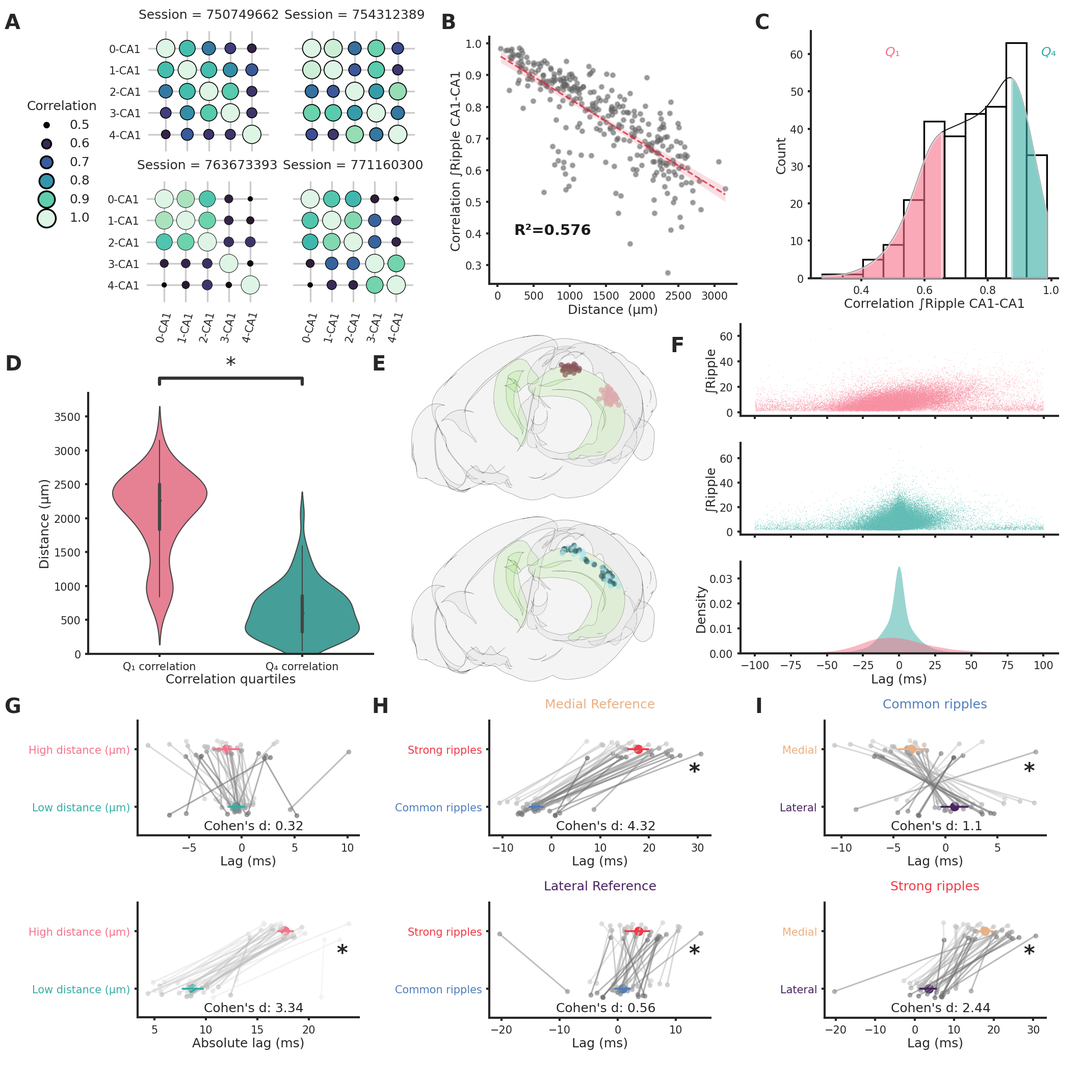
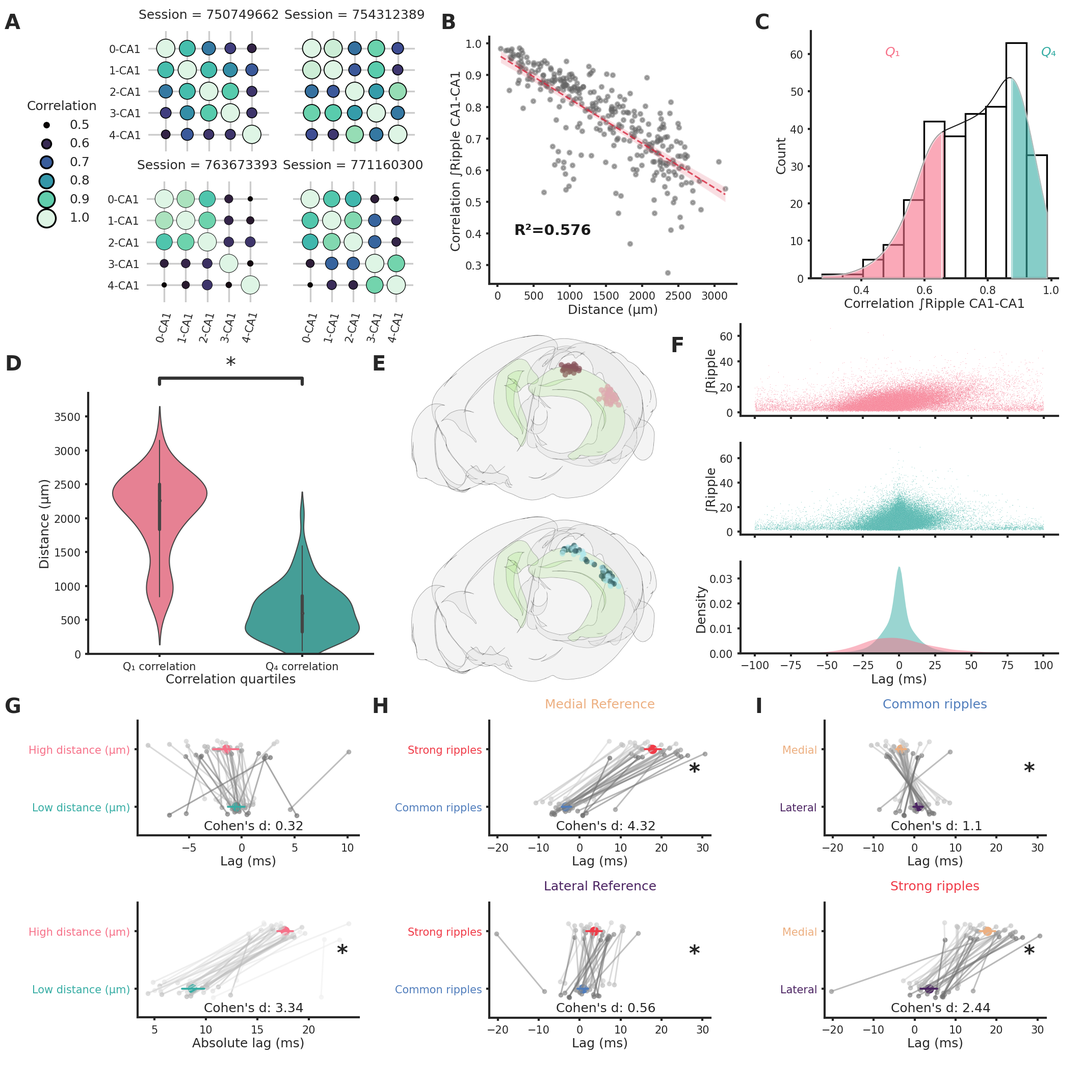
save
save

save

save

save

save

save

save

save

diff --git a/Manuscript/results.py b/Manuscript/results.py
@@ -7,21 +7,24 @@ results = {"Distance explains most of the ripple strength correlation variabilit
             f"in the CA1 of {summary_table['Session'].unique().shape[0]} animals (average session duration = "
             f"{round(np.mean(list(sessions_durations.values())),1)} ± {round(sem(list(sessions_durations.values())),1)} seconds, average ripple incidence during non-running epochs = "
             f"{round(np.mean(list(ripple_freq_total.values()))*10,2)} ± {round(sem(list(ripple_freq_total.values()))*10,2)} per 10s). "
-            f"Ripples were detected on the CA1 channel with the strongest ripple activity (n ripples = {np.sum(list( number_ripples_per_session_best_CA1_channel.values()))}). "
-            f"Ripple strength (∫Ripple) was calculated as the integral of the filtered LFP envelope (Supplementary Figure 2B)."
+            f"Ripples (n ripples = {np.sum(list( number_ripples_per_session_best_CA1_channel.values()))}) "
+            f"were detected on the CA1 channel with the strongest ripple activity. "
+            f"Ripple strength (∫Ripple) was calculated as the integral of the filtered LFP envelope "
+            f"between the start and end points for every detected ripple (Supplementary Figure 2B)."
             f" Clear ripples were observed uniquely in "
-            f"the hippocampal formation (CA1, CA2, CA3, DG, SUB, ProS). Likewise, ripple-induced voltage deflections (RIVD) "
-            f"were also noticeably stronger in hippocampal areas (Supplementary Figure 2C-F). ∫Ripple was noticeably irregular in single sessions both across time and space, even"
+            f"the hippocampal formation (CA1, CA2, CA3, DG, SUB, ProS). Likewise, ripple-induced voltage "
+            f"deflections (RIVD, integral of the unfiltered LFP envelope) "
+            f"were also noticeably stronger in hippocampal areas (Supplementary Figure 2C-F). Ripple strength was noticeably irregular in single sessions both across time and space, even"
             f" within the CA1 region (Supplementary Figure 2C). "
-            f"We focused on the variability in ∫Ripple across pairs of CA1 recording locations "
+            f"We focused on the variability in ripple strength across pairs of CA1 recording locations "
             f"with clear ripple activity (n CA1 pairs = {summary_corrs[summary_corrs['Comparison'] == 'CA1-CA1'].shape[0]},"
             f" n sessions = {summary_corrs['Session'].unique().shape[0]}). "
-            f"Correlation of ∫Ripple across different CA1 regions was highly variable (Figure 1A-B-C) "
+            f"Correlation of ripple strength across different CA1 regions was highly variable (Figure 1A-B-C) "
             f"with a lower and upper quartiles of {round(quartiles_correlation[0.25],2)} and {round(quartiles_correlation[0.75],2)} "
             f"(mean = {round(summary_corrs[summary_corrs['Comparison'] == 'CA1-CA1']['Correlation'].mean(),2)}, "
             f"SEM = {round(summary_corrs[summary_corrs['Comparison'] == 'CA1-CA1']['Correlation'].sem(),2)}). "
             f"Distance between recording location could explain the majority ({round(r_squared_corr_distance*100, 2)}%) of this variability (Figure 1B) "
-            f"with the top and bottom quartiles of ∫Ripple correlation showing significantly different average distances (Figure 1C-D). "
+            f"with the top and bottom quartiles of ripple strength correlation showing significantly different average distances (Figure 1C-D). "
             f"Given the correlation variability we asked how reliably a ripple can travel along the hippocampal longitudinal axis. "
             f"To answer this question, we looked at ripples lag in sessions that included both long-distance (> {round(quartiles_distance[0.75], 2)} µm) and "
             f"short-distance (< {round(quartiles_distance[0.25], 2)} µm) CA1 recording pairs (n sessions = {ripples_lags['Session'].unique().shape[0]}, n CA1 pairs = {ripples_lags['Session'].unique().shape[0] * 2}, Figure 1E). "
@@ -35,21 +38,21 @@ results = {"Distance explains most of the ripple strength correlation variabilit
             f"significantly bigger absolute lag (Figure 1G). Neither high nor short-distance pairs showed clear directionality "
             f"(lag long-distance = {round(ripples_lags_clipped[ripples_lags_clipped['Type']=='High distance (µm)'].groupby('Session')['Lag (ms)'].mean().mean(),2)} ± {round(ripples_lags_clipped[ripples_lags_clipped['Type']=='High distance (µm)'].groupby('Session')['Lag (ms)'].mean().sem(),2)} ms, "   
             f"lag short-distance = {round(ripples_lags_clipped[ripples_lags_clipped['Type']=='Low distance (µm)'].groupby('Session')['Lag (ms)'].mean().mean(),2)} ± {round(ripples_lags_clipped[ripples_lags_clipped['Type']=='Low distance (µm)'].groupby('Session')['Lag (ms)'].mean().sem(),2)} ms). "
-            f"Looking at the relationship between lag and ∫Ripple in long-distance pairs, however, an asymmetric distribution was apparent (Figure 1F top), "
+            f"Looking at the relationship between lag and ripple strength in long-distance pairs, however, an asymmetric distribution was apparent (Figure 1F top), "
             f"suggestive of a possible interaction between these two variables: stronger ripples appear to be predominantly associated with positive lags (i.e. ripples moving medial→lateral). "
-            f"To further investigate this relationship we divided ripples into two groups: strong (top 10% ∫Ripple per session at the reference location) "
+            f"To further investigate this relationship we divided ripples into two groups: strong (top 10% ripple strength per session at the reference location) "
             f"and common (remaining ripples). "
             f"The septal half of the hippocampus was divided in three sections with equal number of recordings:"
             f" medial, central and lateral (Supplementary Figure 3). "
             f"Strong ripples identified in the medial section, in opposition to common ripples, showed a markedly positive lag "
-            f"({fig1_mean_lag_strong_ref_medial} ± {fig1_sem_lag_strong_ref_medial} ms) indicative of a "
+            f"(lag = {fig1_mean_lag_strong_ref_medial} ± {fig1_sem_lag_strong_ref_medial} ms) indicative of a "
             f"preferred medial→lateral travelling direction (Figure 1H top). "
             f"Surprisingly, the same was not true for strong ripples identified in the lateral section (lag = {fig1_mean_lag_strong_ref_lateral} ± {fig1_sem_lag_strong_ref_lateral} ms, Figure 1I). "
-            f"Strong and common ripples lag was significantly different between medial and lateral locations both in common and strong ripples. "
+            f"Strong and common ripples lags were significantly different between medial and lateral locations both in common and strong ripples. "
             f"A biased direction of propagation can be explained by an unequal chance of ripple generation across space. "
-            f"We could assume that selecting strong ripples we are biasing our focus towards ripples whose generation point (seed) is situated nearby our reference "
+            f"We can assume that selecting strong ripples we are biasing our focus towards ripples whose generation point (seed) is situated nearby our reference "
             f"location, this would contribute to explain the unbalanced lag. This notion would, however, fail to explain the different directionality we observed between strong ripples"
-            f" in medial and lateral locations, this hints at a more complex situation.",
+            f" in medial and lateral locations. This hints at a more complex situation.",
 
             "Ripples propagates differentially along the hippocampal longitudinal axis.":
             f"To analyze the propagation of ripples along the hippocampal longitudinal axis we focused on sessions from which ripples were clearly "
@@ -57,10 +60,12 @@ results = {"Distance explains most of the ripple strength correlation variabilit
             f"We followed the propagation of strong and common ripples detected in the reference location across the hippocampus (Figure 2A-B) and built an average spatio-temporal propagation map "
             f"per session (Figure 2C). "
             f"Strong and common ripples in the medial section showed a divergent propagation pattern: strong ripples travelling medio→laterally"
-            f" and common ripples travelling in the opposite direction (Figure 2C-D-E). "
-            f"Ripples detected in the lateral section did not show such strikingly divergent propagation (Figure 2F-G) whereas in the central section the propagation was "
+            f" and common ripples travelling in the opposite direction (Figure 2D-E). "
+            f"Ripples detected in the lateral section did not show such strikingly divergent propagation (Figure 2F-G) whereas, in the central section,"
+            f" the propagation was "
             f"divergent only laterally and not medially (Figure 2H-I). This peculiar propagation profile suggests "
-            "a not previously described underlying directionality along the hippocampal longitudinal axis, with strong ripples generated rarely laterally to the reference point. "
+            "a not previously described underlying directionality along the hippocampal longitudinal axis and can be possibly explained "
+            "by a spatial bias in strong ripples generation. "
             f"To understand the mechanism underlying such difference in propagation "
             f"we examined the location of the seed for each ripple in sessions in which ripples were clearly detected "
             f"in every hippocampal section (n sessions = {seed_ripples_by_hip_section_summary_strong['Session id'].unique().shape[0]})"
@@ -79,20 +84,20 @@ results = {"Distance explains most of the ripple strength correlation variabilit
             f"{round(seed_ripples_by_hip_section_summary_strong[seed_ripples_by_hip_section_summary_strong['Reference']=='Central'].groupby('Location seed').sem().loc['Lateral seed']['Percentage seed (%)'], 2)}%, "
             f"p-value = {p_val_medial_lateral}, Pairwise Tukey test). Strong and common ripples had significantly different seed location profiles only in the medial and central section, "
             f"not in the lateral section (Figure 3B). "
-            f"These seed location profiles explain "
-            f"the propagation idiosyncrasies, major unbalances in seeds location cause propagation patterns with clear directionality, "
+            f"These seed location profiles contribute to explain "
+            f"the propagation idiosyncrasies: major unbalances in seeds location cause propagation patterns with clear directionality, "
             f"on the contrary, lag measurements hovering around zero are the result of "
-            f"averaging between two similarly numbered groups of ripples with opposite direction of propagation. Conversely, "
+            f"averaging between two similarly numbered groups of ripples with opposite direction of propagation. Notably, "
             f"propagation speed did not change depending on the seed location (Supplementary Figure 4). "
             f"The reason why strong ripples are only in a minority of cases"
             f" generated in the lateral section remains nevertheless unclear. Using a 'strength conservation index' (SCI) "
             f"we measured the ability of a ripple to retain its strength during propagation "
             f"(a ripple with SCI = 1 is in the top 10% in all hippocampal sections). We observed that ripples generated laterally "
             f"were effectively less able to retain their strength propagating towards the medial pole (Supplementary Figure 5). This result is not simply "
-            f"explained by differences in ∫Ripple along the medio-lateral (M-L) axis, as no such gradient was observed (R² = {round(r_ML_strength**2,4)}, Supplementary Figure 6). Curiously, "
+            f"explained by differences in ripple strength along the medio-lateral (M-L) axis, as no such gradient was observed (R² = {round(r_ML_strength**2,4)}, Supplementary Figure 6). Curiously, "
             f"ripple amplitude showed a weak trend in the opposite direction (R² = {round(r_ML_amp**2,2)}), with higher amplitude ripples in the lateral section (Supplementary Figure 7).",
 
-            "The hippocampal medial/septal pole can generate longer strong ripples able to better engage neural networks.":
+            "The hippocampal medial pole can generate longer ripples able to better engage neural networks.":
             f"To understand the reason behind the differential propagation we focused uniquely on the central section, "
             f"here it was possible to distinguish between ripples generated laterally or medially ('lateral ripples' and 'medial ripples'). "
             f"We included in the analysis sessions in which ripples were clearly detected in each hippocampal section and with at least {minimum_ripples_count_generated_in_lateral_or_medial_spike_analysis}"
@@ -102,8 +107,8 @@ results = {"Distance explains most of the ripple strength correlation variabilit
             f"in the hippocampal formation across the M-L axis (n clusters per session = {round(tot_summary.groupby('Session id').size().mean(), 2)} ± {round(tot_summary.groupby('Session id').size().sem(), 2)}, Figure 4A-B-C). "
             f"To compare sessions, we created interpolated maps of the difference between spiking induced"
             f' by medial and lateral ripples (Figure 4D). Immediately following ripple start (0-50 ms, "early phase") spiking was '
-            f"predictably influenced by ripple seed proximity: in the lateral section, lateral ripples induced more spiking (indicated by the blue color), "
-            f"whereas in the medial section it was the medial ripples that dominated (indicated by the red color). "
+            f"predictably influenced by ripple seed proximity: in the lateral section lateral ripples induced more spiking (indicated by the blue color), "
+            f"whereas in the medial section medial ripples dominated (indicated by the red color). "
             f'Surprisingly, in the 50-120 ms window post ripple start ("late phase"), medial ripples could elicit significantly higher '
             f"spiking activity than lateral ripples along"
             f" the entire M-L axis (Figure 4E). Dividing clusters in putative excitatory and inhibitory using the waveform duration "
@@ -119,18 +124,17 @@ results = {"Distance explains most of the ripple strength correlation variabilit
             f"Focusing only on the late phase "
             f"the difference in fraction of active neurons per ripples between medial and lateral ripples was even more "
             f"striking (Cohen's d = {str(round(ttest_late_clus_per_ripple['cohen-d'].values[0], 2))}, Figure 4G). Inversely, "
-            f"in the early phase lateral ripples could engage more neurons, although, the effect size was much smaller "
+            f"in the early phase, lateral ripples could engage more neurons, although, the effect size was much smaller "
             f"(Cohen's d = {str(round(ttest_early_clus_per_ripple['cohen-d'].values[0], 2))}). The same result was found in relation to the spiking rate, medial ripples "
             f"caused a significant and considerable increase in spiking rate in the late phase (Cohen's d = {str(round(ttest_late_spiking['cohen-d'].values[0], 2))}, Figure 4H). "
             f"Dividing again the clusters into putative excitatory and inhibitory, significant differences between medial and lateral ripples "
-            f"were present only in the late phase. Spiking frequency and number of engaged neurons were significant higher in medial ripples both in putative excitatory"
+            f"were present only in the late phase. Spiking frequency and number of engaged neurons were significantly higher in medial ripples both in putative excitatory"
             f" and inhibitory clusters (Supplementary Figure 10). In summary, the prolonged spiking observed in medial ripples was caused both by an increased"
             f" number of engaged neurons and a higher spiking rate per cell, both in putative excitatory and inhibitory neurons. "
             f"The disparity in network engagement can possibly "
             f"be in part explained by electrophysiological differences across hippocampal sections (e.g. higher firing rate). "
             f"We did not find differences in the number of firing neurons (medial = {round(normalized_cluster_count_per_probe['Medial'].mean(), 2)}, "
-            f"lateral = {round(normalized_cluster_count_per_probe['Lateral'].mean(), 2)}, p-value = {test_cluster_count}, Mann-Whitney U test), " 
+            f"lateral = {round(normalized_cluster_count_per_probe['Lateral'].mean(), 2)}, p-value = {'{:.2e}'.format(test_cluster_count)}, Mann-Whitney U test), " 
             f"we did, however, found differences in firing rate, waveform duration, and waveform shape (recovery slope and peak-through ratio)."
             f" Firing rate and waveform duration exhibited respectively "
-            f"a left- and right-shifted distribution in the lateral section, reflecting higher firing rate and shorter action potentials "
-            f"in the medial section. "}
+            f"a left- and right-shifted distribution in the lateral section, reflecting lower firing rate and slower action potentials."}

diff --git a/Manuscript/discussion.py b/Manuscript/discussion.py
@@ -7,51 +7,57 @@ discussion = "Our results show for the first time that strong ripples propagate 
              "in addition, despite the presence of connections within the hippocampal longitudinal axis {Witter, 2007 #1155; van Strien, 2009 #1156}, " \
              "in the vast majority of cases ripples do not propagate to the opposite pole {Sosa, 2020 #1154}. "\
              "In accordance with these results, " \
-             "we observed a strong effect of spatial distance on ripple power correlation confirming a previous study {Nitzan, 2022 #1157}: " \
-             "the power correlation, predictably, was higher in CA1 pairs " \
+             "we observed a strong effect of spatial distance on ripple strength correlation confirming a previous study {Nitzan, 2022 #1157}: " \
+             "the strength correlation, predictably, was higher in CA1 pairs " \
              "closer to each other. The effect of distance was also apparent on the ripple chance of propagation, only half of the ripples generated in " \
              "the septal pole were detected additionally in the intermediate hippocampus (lateral section in our analysis). " \
-             "This chance is much higher compared to the one reported regarding propagation between " \
-             "opposite poles (~3.7%), it would be interesting to understand whether the temporal pole is also able to entrain the intermediate hippocampus " \
+             "This chance is much higher compared to the ~3.7% reported regarding propagation between " \
+             "opposite poles {Sosa, 2020 #1154}, it would be interesting to understand whether the temporal pole is also able to entrain the intermediate hippocampus " \
              "in similar fashion or it is a peculiarity of the septal pole. " \
-             "A limitation of our work derives from the dataset being limited to the septal and intermediate hippocampus.  \n" \
+             "A limitation of our work derives from the dataset being limited to the septal and intermediate hippocampus, " \
+             "therefore we could not answer this question. \n" \
              "Ripples can arise at any location along the hippocampal longitudinal axis {Patel, 2013 #1133}. Our analysis shows that ripples are, however, " \
              "not homogeneously generated across space. We observed important differences between strong ripples and common ripples generation. " \
              "Common ripples followed a gradient with higher likelihood in the intermediate section and lowest in the septal pole. " \
-             "Strong ripples, on the other hand, are generated mostly locally, i.e., a strong ripple detected in the medial section is most likely " \
-             "generated in the medial section itself. Furthermore, only rarely a strong ripple generated in the intermediate hippocampus is able to propagate " \
-             "towards the septal pole retaining its strong status (top 10%). Conversely strong ripples generated in the septal pole have a sizable chance of " \
-             "propagate longitudinally and still be in the top 10% in terms of ripple strength. We also show that ripples generated in the septal pole and in the " \
-             "intermediate hippocampus have a significantly different ability of engaging the hippocampal networks in the 50-120 ms window " \
-             "post ripple start, ripples generated in the septal pole activate more neurons, both excitatory and inhibitory, and, moreover, " \
-             "can elicit an higher spiking rate per neuron. This is reflected by the fact that the position on the longitudinal axis explains " \
+             "Strong ripples, on the other hand, are generated mostly locally (i.e. a strong ripple detected in the medial section is most likely " \
+             "generated in the medial section itself). Furthermore, only rarely a strong ripple generated in the intermediate hippocampus is able to propagate " \
+             "towards the septal pole retaining its strong status (top 10%). Conversely strong ripples generated in the septal pole have" \
+             " a significantly higher chance of " \
+             "propagate longitudinally and still be in the top 10% in terms of ripple strength. Notably, this is not consequence of a simple " \
+             "longitudinal gradient in ripple strength, indeed, we did not observe any" \
+             " difference in ripple strength along the longitudinal axis. " \
+             "Additionally, we show that ripples generated in the septal pole and in the " \
+             "intermediate hippocampus have a significantly different ability to engage hippocampal networks in the 50-120 ms window " \
+             "post ripple start. Ripples generated in the septal pole activate more neurons, both excitatory and inhibitory, and, moreover, " \
+             "elicit an higher spiking rate per neuron. This prolonged network activation is reflected by the fact that the position on the longitudinal axis explains " \
              f"{round(r_common*100, 2)}% and {round(r_strong*100, 2)}% of the variability in ripple duration in common and strong ripples respectively. " \
-             "Consistently, the temporal hippocampus has been shown to produce shorter ripples both in awake and sleep conditions {Sosa, 2020 #1154}. " \
-             "Long duration ripples has been shown to be of particular importance in situations of " \
-             "high-memory demand {Fernández-Ruiz, 2019 #1121}, previous studies highlighted " \
-             "the role of septal hippocampus in memory tasks and information processing {Hock, 1998 #1122;Moser, 1993 #1123;Moser, 1995 #1124;Steffenach, 2005 #1128;" \
-             "Kheirbek, 2013 #1126;McGlinchey, 2018 #1125;Fanselow, 2010 #1129;Maras, 2014 #1130;Bradfield, 2020 #1131;Qin, 2020 #1132}."\
-             "Ripple generation seems to be homogeneous across the hippocampal longitudinal axis {Patel, 2013 #1133}. " \
-             "Our results can explain the specific role of septal hippocampus in memory tasks with its ability of generating particularly long " \
-             "ripples that are able to strongly engage networks in the entire top half of the hippocampal formation for an extended time. What " \
-             "is the reason that enables the septal pole to generate longer ripples? There might for example be underlying electrophysiological" \
-             " differences between the septal and intermediate hippocampus. Looking at units features we found some differences in the waveform shape and " \
-             "duration. We can hypothesize that longer action potentials and, consequentially, " \
+             "Consistent with a duration gradient along the longitudinal axis, the temporal hippocampus has been shown to " \
+             "produce shorter ripples both in awake and sleep conditions {Sosa, 2020 #1154}. \n"\
+            "What is the reason that enables the septal pole to generate longer ripples? There might be for example underlying electrophysiological" \
+             " differences between the septal and intermediate hippocampus. Looking at units electrophysiological features we found some differences in the waveform shape and " \
+             "duration,. We can hypothesize that slower action potentials and, consequentially, " \
              "longer refractory periods hinder the ability" \
-             " to sustain protracted high frequency spiking. Accordingly, we found an increased firing rate in the septal pole. " \
-             "This might contribute to " \
-             "explain the prolonged ripples observed in the septal pole. " \
-             "We can also speculate that the neuromodulatory inputs gradient, monoamine fibers have been shown to be stronger in the ventral part {Strange, 2014 #1105}, " \
+             " to sustain protracted high frequency spiking. Accordingly, we found an increased firing rate and a smaller waveform duration in the septal pole. " \
+             "This might contribute to explain the prolonged ripples observed in the septal pole. " \
+             "We can also speculate that the neuromodulatory inputs gradient, monoamine fibers have been shown to be stronger in the ventral part {Strange, 2014 #1158}, " \
              "might influence neurons responses. Serotonin {ul Haq, 2016 #1165; Wang, 2015 #1170}, noradrenaline {Ul Haq, 2012 #1166; Novitskaya, 2016 #1171} and acetylcholine {Zhang, 2021 #1167} " \
              "have all been shown to suppress ripples. In accordance with this, some ripples are coupled with a reduced activation of the locus coeruleus" \
-             " and the dorsal raphe nucleus in vivo {Ramirez-Villegas, 2015 #1168}. " \
-             "Ripples can be subdivided in different types according to the relationship between the hippocampal LFP and the ripple itself {Ramirez-Villegas, 2015 #1168}." \
+             " and the dorsal raphe nucleus in vivo {Ramirez-Villegas, 2015 #1168}. \n" \
+             "Ripples can be subdivided in different types according to the relationship between the hippocampal LFP and the ripple itself " \
+             "{Ramirez-Villegas, 2015 #1168}. " \
              "Intriguingly these subtypes are associated with two different brain-wide networks, the first communicating preferentially with " \
              "the associative neocortex and a second one biased towards subcortical structures. Moreover, these different types of ripples have been " \
              "proposed to possibly fulfill different functional roles. Given the different input/output connectivity between " \
-             "septal, intermediate and temporal hippocampus {Fanselow, 2010 #1129} we hypothesize that ripple generated at different points of " \
-             "the hippocampal longitudinal axis might as well have functional differences, with the strong ripples generated septally possibly able to " \
+             "septal, intermediate and temporal hippocampus {Fanselow, 2010 #1150} we hypothesize that ripple generated at different points of " \
+             "the hippocampal longitudinal axis might as well have functional differences, with the longer ripples generated septally possibly able to " \
              "combine the different kind of informations processed in the distinct hippocampal sections and further relaying the " \
              "integrated information back to the neocortex in accordance with the two-stage memory hypothesis {Diekelmann, 2010 #1172; Marr, 1971 #1173;" \
-             "Buzsáki, 1989 #1174; Rasch, 2007 #1175; McClelland, 1995 #1176}.  " \
+             "Buzsáki, 1989 #1174; Rasch, 2007 #1175; McClelland, 1995 #1176}. \n" \
+             "Long duration ripples have been shown to be of particular importance in situations of " \
+             "high-memory demand {Fernández-Ruiz, 2019 #1121}, at the same time, previous studies highlighted " \
+             "the role of septal hippocampus in memory tasks and information processing {Hock, 1998 #1122;Moser, 1993 #1123;Moser, 1995 #1124;Steffenach, 2005 #1128;" \
+             "Kheirbek, 2013 #1126;McGlinchey, 2018 #1125;Fanselow, 2010 #1150;Maras, 2014 #1130;Bradfield, 2020 #1131;Qin, 2020 #1132}. " \
+             "Our results can contribute to explain the specific role of septal hippocampus in memory-demanding tasks with" \
+             " its ability of generating particularly long " \
+             "ripples that are able to strongly engage networks in the entire top half of the hippocampal formation for an extended time. " \
 

diff --git a/Manuscript/introduction.py b/Manuscript/introduction.py
@@ -3,36 +3,38 @@ introduction= "Hippocampal ripples are brief oscillatory events detected in the 
               " hippocampal subregions {Hulse, 2016 #1141; Ylinen, 1995 #1140}. " \
               "An higher ripple incidence during memory encoding is associated with superior recall performance {Norman, 2019 #1142}, " \
               " furthermore, ripple incidence is increased during successful memory retrieval {Vaz, 2019 #1147; Carr, 2011 #1169}. " \
-              "Ripples are also involved in memory consolidation both in awake and sleep conditions {Jadhav, 2012 #1143; Roux, 2017 #1144; Sirota, 2003 #1145; Girardeau, 2009 #1146}, " \
+              "Ripples are also involved in memory consolidation both in awake and sleep conditions {Jadhav, 2012 #1143; Roux, 2017 #1144; " \
+              "Sirota, 2003 #1145; Girardeau, 2009 #1146}, " \
               "disrupting awake ripples during learning causes a persisting performance degradation, the same effect can be achieved by " \
               "silencing ripples during post-learning sleep. " \
-              "Accordingly, ripples are considered to play a crucial role in memory processes and reorganization of memory engrams {Girardeau, 2011 #1148; Buzsáki, 2015 #1110;Diba, 2007 #1111;" \
+              "Accordingly, ripples are considered to play a crucial role in memory processes and reorganization of memory engrams " \
+              "{Girardeau, 2011 #1148; Buzsáki, 2015 #1110;Diba, 2007 #1111;" \
               "Foster, 2006 #1112; Xu, 2019 #1113;Takahashi, 2015 #1114;Davidson, 2009 #1116; Pfeiffer, 2015 #1117;" \
               "Dragoi, 2011 #1118; Girardeau, 2009 #1120}. " \
               "Ripples duration exhibits a skewed distribution with only a minority of long-duration ripples (>100 ms). " \
               "Interestingly, the fraction of long-duration ripples " \
-              "is increased in novel contexts, in tasks memory-demanding and during correct recalls {Fernández-Ruiz, 2019 #1121}. " \
-              " Reducing ripple duration artificially causes degraded working memory performance {Jadhav, 2012 #1135}, on the contrary, " \
+              "is increased in novel contexts, in memory-demanding tasks and during correct recalls {Fernández-Ruiz, 2019 #1121}. " \
+              "Reducing ripple duration artificially causes a degraded working memory performance {Jadhav, 2012 #1135} and, on the contrary, " \
               "prolongation has a beneficial effect {Fernández-Ruiz, 2019 #1121}. " \
               "Ripple duration is directly proportional to ripple amplitude {Patel, 2013 #1133}, therefore, " \
               "these results point at a specific role " \
-              "of long-duration/stronger ripples in situations of high mnemonic demand and are consistent with a possible " \
+              "of stronger ripples in situations of high mnemonic demand and are consistent with a possible " \
               "power law distribution where a minority of ripples" \
               " is responsible for a substantial part of memory requirements. " \
-              "For this reason it is of interest to identify the possible electrophysiological peculiarities of this ripples subgroup. Do strong ripples propagate differently " \
+              "For this reason, it is of interest to identify the possible electrophysiological peculiarities of this subgroup of ripples. Do strong ripples propagate differently " \
               "compared to common ripples? Are strong ripples generated homogeneously along the hippocampal longitudinal axis? Do ripples have a preferred longitudinal " \
               "directionality? " \
               "In this study we focused our attention on ripples generation and propagation within the hippocampal formation. " \
               "Hippocampal connectivity with cortical and sub-cortical areas varies considerably " \
-              "along the longitudinal axis {Moser, 1998 #1149; Fanselow, 2010 #1150}, gene expression as well exhibits both gradual and discrete " \
-              "transitions along the same axis {Vogel, 2020 #1151; Strange, 2014 #1158}, as a consequence, the hippocampus is considered to be functionally segmented. " \
-              "The different cortical connectivity contributes " \
+              "along the longitudinal axis {Moser, 1998 #1149; Fanselow, 2010 #1150} and gene expression, as well, exhibits both gradual and discrete " \
+              "transitions along the same axis {Vogel, 2020 #1151; Strange, 2014 #1158}. Consequently, the hippocampus is considered to be functionally segmented " \
+              "along its long axis. " \
+              "The different connectivity contributes " \
               "to explain the functional organization gradient between a predominantly spatio-visual (septal pole) and emotional (temporal pole) processing. " \
-              "Additionally, monoamine neuromodulators show stronger projections to ventral regions of the hippocampus. " \
               "Ripples generated in the septal and temporal hippocampal pole has already been shown to be temporally independent and able to engage " \
-              "different neuron subpopulations downstream, even in the same brain area {Sosa, 2020 #1154}. Consequentially, an heterogeneous " \
+              "different neuron subpopulations, even in the same downstream brain area {Sosa, 2020 #1154}. Consequentially, a heterogeneous " \
               "ripple generation chance along the longitudinal axis " \
-              "most probably has an impact on the frequency with which different downstream brain areas and neurons subgroups are activated. " \
+              "most probably has an impact on the frequency with which different brain areas and neurons subgroups are activated. " \
               "Our work is based on a dataset provided by the Allen Institute {Siegle, 2021 #1127}, this dataset enabled us to study" \
               " comprehensively ripples features " \
               "across the septal half of the hippocampus. Previous studies have looked at ripple propagation along the longitudinal " \

diff --git a/Manuscript/abstract.py b/Manuscript/abstract.py
@@ -9,14 +9,15 @@ with open(f'{output_folder_calculations}/clean_ripples_calculations.pkl', 'rb') 
 
 abstract = "Hippocampal ripples are highly synchronous neural events critical for memory consolidation and retrieval. " \
            "A minority of strong ripples has been shown to be of particular importance in situations of increased memory demands. " \
-           "The propagation dynamics of strong ripples inside the hippocampal formation are however still opaque. " \
-           f"We analyzed extensively ripple propagation within the septal half of the hippocampal formation in an open access dataset" \
+           "The propagation dynamics of strong ripples inside the hippocampal formation are, however, still opaque. " \
+           f"We analyzed ripple propagation within the septal half of the hippocampal formation in an open access dataset" \
            f" provided by the Allen Institute. " \
-           "Surprisingly, strong ripples propagate differentially in the septal and temporal direction along the hippocampal longitudinal axis. " \
-           "Most strong ripples are always generated locally, however, the septal hippocampal pole is able to generate" \
+           "Surprisingly, strong ripples propagate differentially in the septal and temporal direction " \
+           "along the hippocampal longitudinal axis. " \
+           "The septal hippocampal pole is able to generate" \
            " longer ripples that engage more neurons" \
            " and elicit spiking activity for an extended time along the entire septal half of the hippocampal formation. Ripples generated septally " \
            "have therefore higher chances of retaining their strength while travelling within the hippocampus. " \
            f"A substantial portion of the variance in strong ripple duration (R² = {r_strong}) is explained solely by the ripple generation " \
-           f"point on the longitudinal axis.  " \
-           "Our results suggest a possible distinctive role of the hippocampal septal pole in conditions of high memory demand. "
+           f"point on the longitudinal axis. " \
+           "Our results are consistent with a possible distinctive role of the hippocampal septal pole in conditions of high memory demand. "

diff --git a/Figures/legends.py b/Figures/legends.py
@@ -63,7 +63,6 @@ legends = {"Figure 1. ∫Ripple correlation depends significantly on distance.":
            f" lateral reference = {round(fig_3_mean_common.loc['Lateral seed','Lateral'],2)} ± {round(fig_3_sem_common.loc['Lateral seed','Lateral'],2)} %). "
             f"(B) Ripple seed location comparison between strong and common ripples using a medial (left), "
            f"central (center) or lateral reference (right). "
-           f"{seed_ripples_by_hip_section_summary_common.shape[0]} CA1 locations in {seed_ripples_by_hip_section_summary_common['Session id'].unique().shape[0]} sessions. "
            f"Asterisks mean P<0.05, Kruskal-Wallis test with pairwise Mann-Whitney post-hoc test.",
 
             "Figure 4. Ripples travelling in the medio→lateral direction show prolonged neural circuit engagement.":
@@ -102,6 +101,7 @@ legends = {"Figure 1. ∫Ripple correlation depends significantly on distance.":
             f"{round(fig_4_summary_spiking_late[fig_4_summary_spiking_late['Location seed'] == 'Medial seed']['Spiking rate per 10 ms'].sem(), 3)}, "
             f"late/lateral seed = {round(fig_4_summary_spiking_late[fig_4_summary_spiking_late['Location seed'] == 'Lateral seed']['Spiking rate per 10 ms'].mean(), 2)} ± "
             f"{round(fig_4_summary_spiking_late[fig_4_summary_spiking_late['Location seed'] == 'Lateral seed']['Spiking rate per 10 ms'].sem(), 3)}, "
-            f"p-valu = {'{:.2e}'.format(fig_4_ttest_late_spiking['p-val'].values[0])}, Student's t-test."}
+            f"p-value = {'{:.2e}'.format(fig_4_ttest_late_spiking['p-val'].values[0])}, Student's t-test."}
+
 
 

diff --git a/Manuscript/methods.py b/Manuscript/methods.py
@@ -130,6 +130,6 @@ methods = {"Dataset": f"Our analysis was based on the Visual Coding - Neuropixel
                            f"Presence ratio > {presence_ratio_thr}. "
                            f"For an explanation of the parameters see "
                            f"https://github.com/AllenInstitute/ecephys_spike_sorting/blob/master/ecephys_spike_sorting/modules/quality_metrics/README.md and "
-                           f"https://brainmapportal-live-4cc80a57cd6e400d854-f7fdcae.divio-media.net/filer_public/80/75/8075a100-ca64-429a-b39a-569121b612b2/neuropixels_visual_coding_-_white_paper_v10.pdf."
+                           f"https://brainmapportal-live-4cc80a57cd6e400d854-f7fdcae.divio-media.net/filer_public/80/75/8075a100-ca64-429a-b39a-569121b612b2/neuropixels_visual_coding_-_white_paper_v10.pdf. "
                            f"Firing rate was calculated on all clusters with presence ratio > {presence_ratio_thr}."
            }

diff --git a/Figures/legends_supplementary.py b/Figures/legends_supplementary.py
@@ -11,7 +11,7 @@ legends_supplementary = {
    f"(B) First column: Raw LFP traces color coded according to probe identity, "
    f"superimposed in black the trace after high-pass filtering to show the presence of a ripple. Scale bar: 250 µV. "
    f"Middle column: Ripple envelope and associated ∫Ripple in red. Last column: Raw LFP trace and associated RIVD"
-   f" in blue."
+   f" in blue. "
    f"(C) Heatmaps of ∫Ripple (left) and RIVD (right) for the entirety of session {session_id_supp_fig1} and "
    f"for each recorded area. To note the variability in ∫Ripple over time and cross different CA1 locations."
    f"(D) Kernel density estimate plot showing the relationship between ∫Ripple and RIVD. Bar plot shows the "

diff --git a/Figures/Figure_1/Figure_1_pointplot_lag.py b/Figures/Figure_1/Figure_1_pointplot_lag.py
@@ -194,4 +194,8 @@ for n, ytick in enumerate(axs[0, 1].get_yticklabels()):
 for n, ytick in enumerate(axs[1, 1].get_yticklabels()):
     ytick.set_color(palette_timelags[ytick.get_text()])
 
+axs[0,0].set_xlim(-22, 32)
+axs[0,1].set_xlim(-22, 32)
+axs[1,0].set_xlim(-22, 32)
+axs[1,1].set_xlim(-22, 32)
 plt.show()

diff --git a/Figures/Figure_1/Figure_1_pointplot_lag_summary.py b/Figures/Figure_1/Figure_1_pointplot_lag_summary.py
@@ -81,6 +81,7 @@ p_value_ttest_abs_lag = '{:0.2e}'.format(ttest["p-val"][0])
 
 axs[1].text(.3, .05, "Cohen's d: " + str(round(ttest["cohen-d"].values[0], 2)), transform=axs[1].transAxes, fontsize=6);
 
+
 plt.show()
 
 
